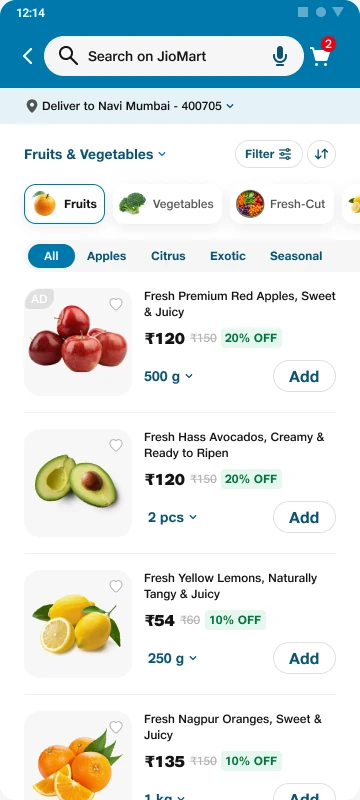
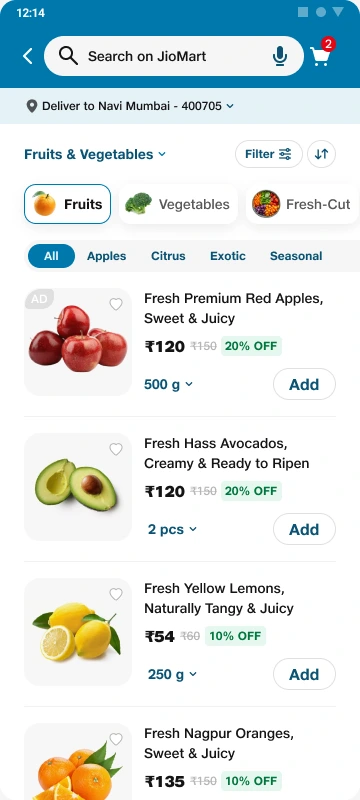
Deck + case study: grocery listing from the latest Figma; pack-size taps follow the new spacing
Claude-Session: https://claude.ai/code/session_01Hk7si3owCVDs4cH4zgK8o7

diff --git a/js/jiomart-deck-slides.js b/js/jiomart-deck-slides.js
@@ -518,7 +518,7 @@ window.DECK = {
       views: [
         { v: "old", label: "Before", img: "enhance-problem-plp.png", n: "Name and price only" },
         { v: "new", label: "Grocery", img: "new/plp-grocery.webp", h: 800, n: "Discount, size and wishlist on every card",
-          hot: [ { x: 236, y: 140, w: 66, h: 30, open: "new/plp-filter.webp", label: "Filter" }, { x: 305, y: 140, w: 32, h: 30, open: "new/plp-sort.webp", label: "Sort" }, { x: 142, y: 362, w: 58, h: 28, open: "new/plp-grocery-variant.webp", label: "Pack size" } ] },
+          hot: [ { x: 236, y: 140, w: 66, h: 30, open: "new/plp-filter.webp", label: "Filter" }, { x: 305, y: 140, w: 32, h: 30, open: "new/plp-sort.webp", label: "Sort" }, { x: 142, y: 370, w: 58, h: 28, open: "new/plp-grocery-variant.webp", label: "Pack size" } ] },
         { v: "mob", label: "Mobiles", img: "new/plp-electronics.webp", h: 978, n: "Applied filters stay visible as chips; specs on every card",
           hot: [ { x: 236, y: 142, w: 66, h: 30, open: "new/plp-filter.webp", label: "Filter" }, { x: 305, y: 142, w: 32, h: 30, open: "new/plp-sort.webp", label: "Sort" } ] },
         { v: "fash", label: "Fashion", img: "new/plp-fashion.webp", h: 1024, n: "Size, fit and brand filters up top; colour dots on the card" },
@@ -753,7 +753,7 @@ window.DECK = {
           hot: [
             { x: 236, y: 140, w: 66, h: 30, open: "new/plp-filter.webp", label: "Filter" },
             { x: 305, y: 140, w: 32, h: 30, open: "new/plp-sort.webp", label: "Sort" },
-            { x: 142, y: 362, w: 58, h: 28, open: "new/plp-grocery-variant.webp", label: "Pack size" }
+            { x: 142, y: 370, w: 58, h: 28, open: "new/plp-grocery-variant.webp", label: "Pack size" }
           ],
           why: "Pick a pack size, filter or sort without leaving the list.", proof: "Listing rated S2 in the {{audit|audit}}: name and price only on the old card." },
         { k: "Mobiles listing", img: "new/plp-electronics.webp", h: 978, old: "enhance-iter-mobile-before.png",

diff --git a/js/jiomart-deck.js b/js/jiomart-deck.js
@@ -1120,7 +1120,7 @@
     overview: function (sc) {
       var tiles = sc.screens.map(function (x, i) {
         if (x.sheet) {
-          var h = x.hot || [37, 44.5, 20, 5.5];
+          var h = x.hot || [38, 45.5, 18, 5.5];
           return "<figure class='ov-n vr'><div class='device ov-dev'><div class='dn'></div><div class='ds'><div class='vr-wrap'>" +
             "<img src='" + img(x.src) + "' alt=''>" +
             "<img class='vr-dim' src='" + img(x.sheet) + "' alt=''>" +

diff --git a/jiomart-deck.html b/jiomart-deck.html
@@ -58,8 +58,8 @@
       </aside>
     </div>
 
-    <script src="js/jiomart-deck-slides.js?v=192"></script>
-    <script src="js/jiomart-deck.js?v=164"></script>
+    <script src="js/jiomart-deck-slides.js?v=193"></script>
+    <script src="js/jiomart-deck.js?v=165"></script>
     <script src="./js/gate.js?v=3"></script>
   </body>
 </html>
